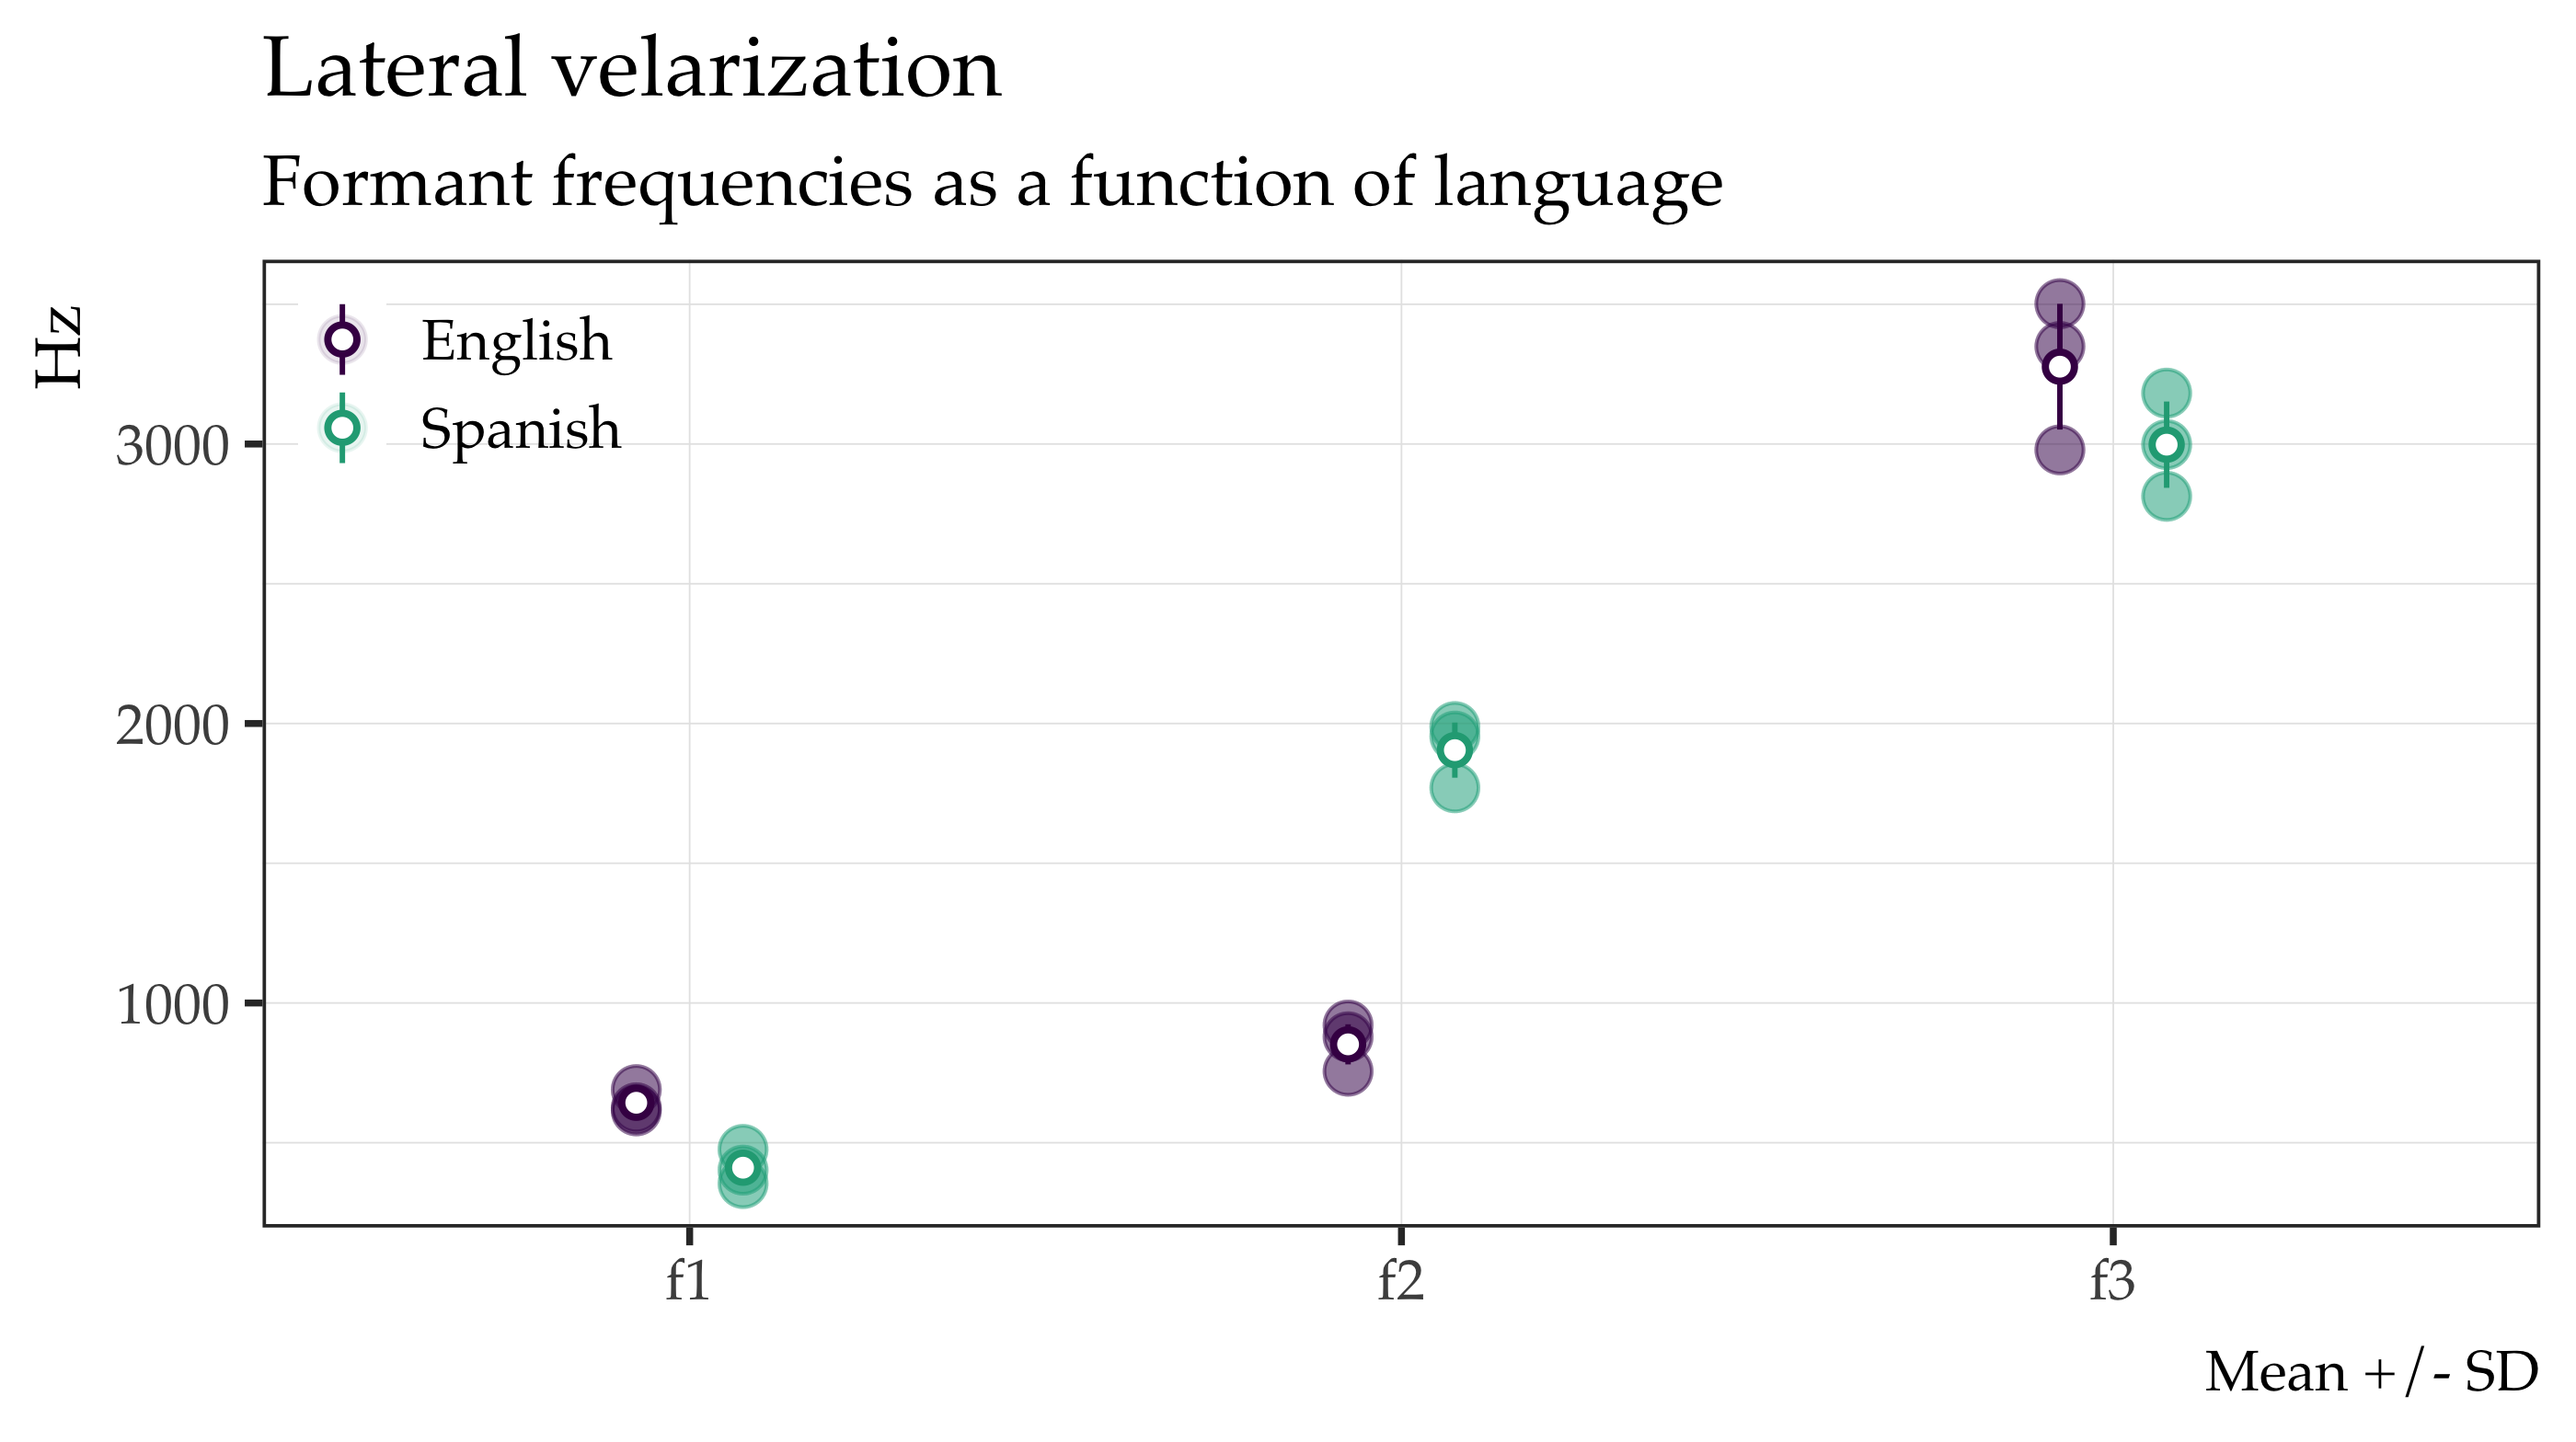
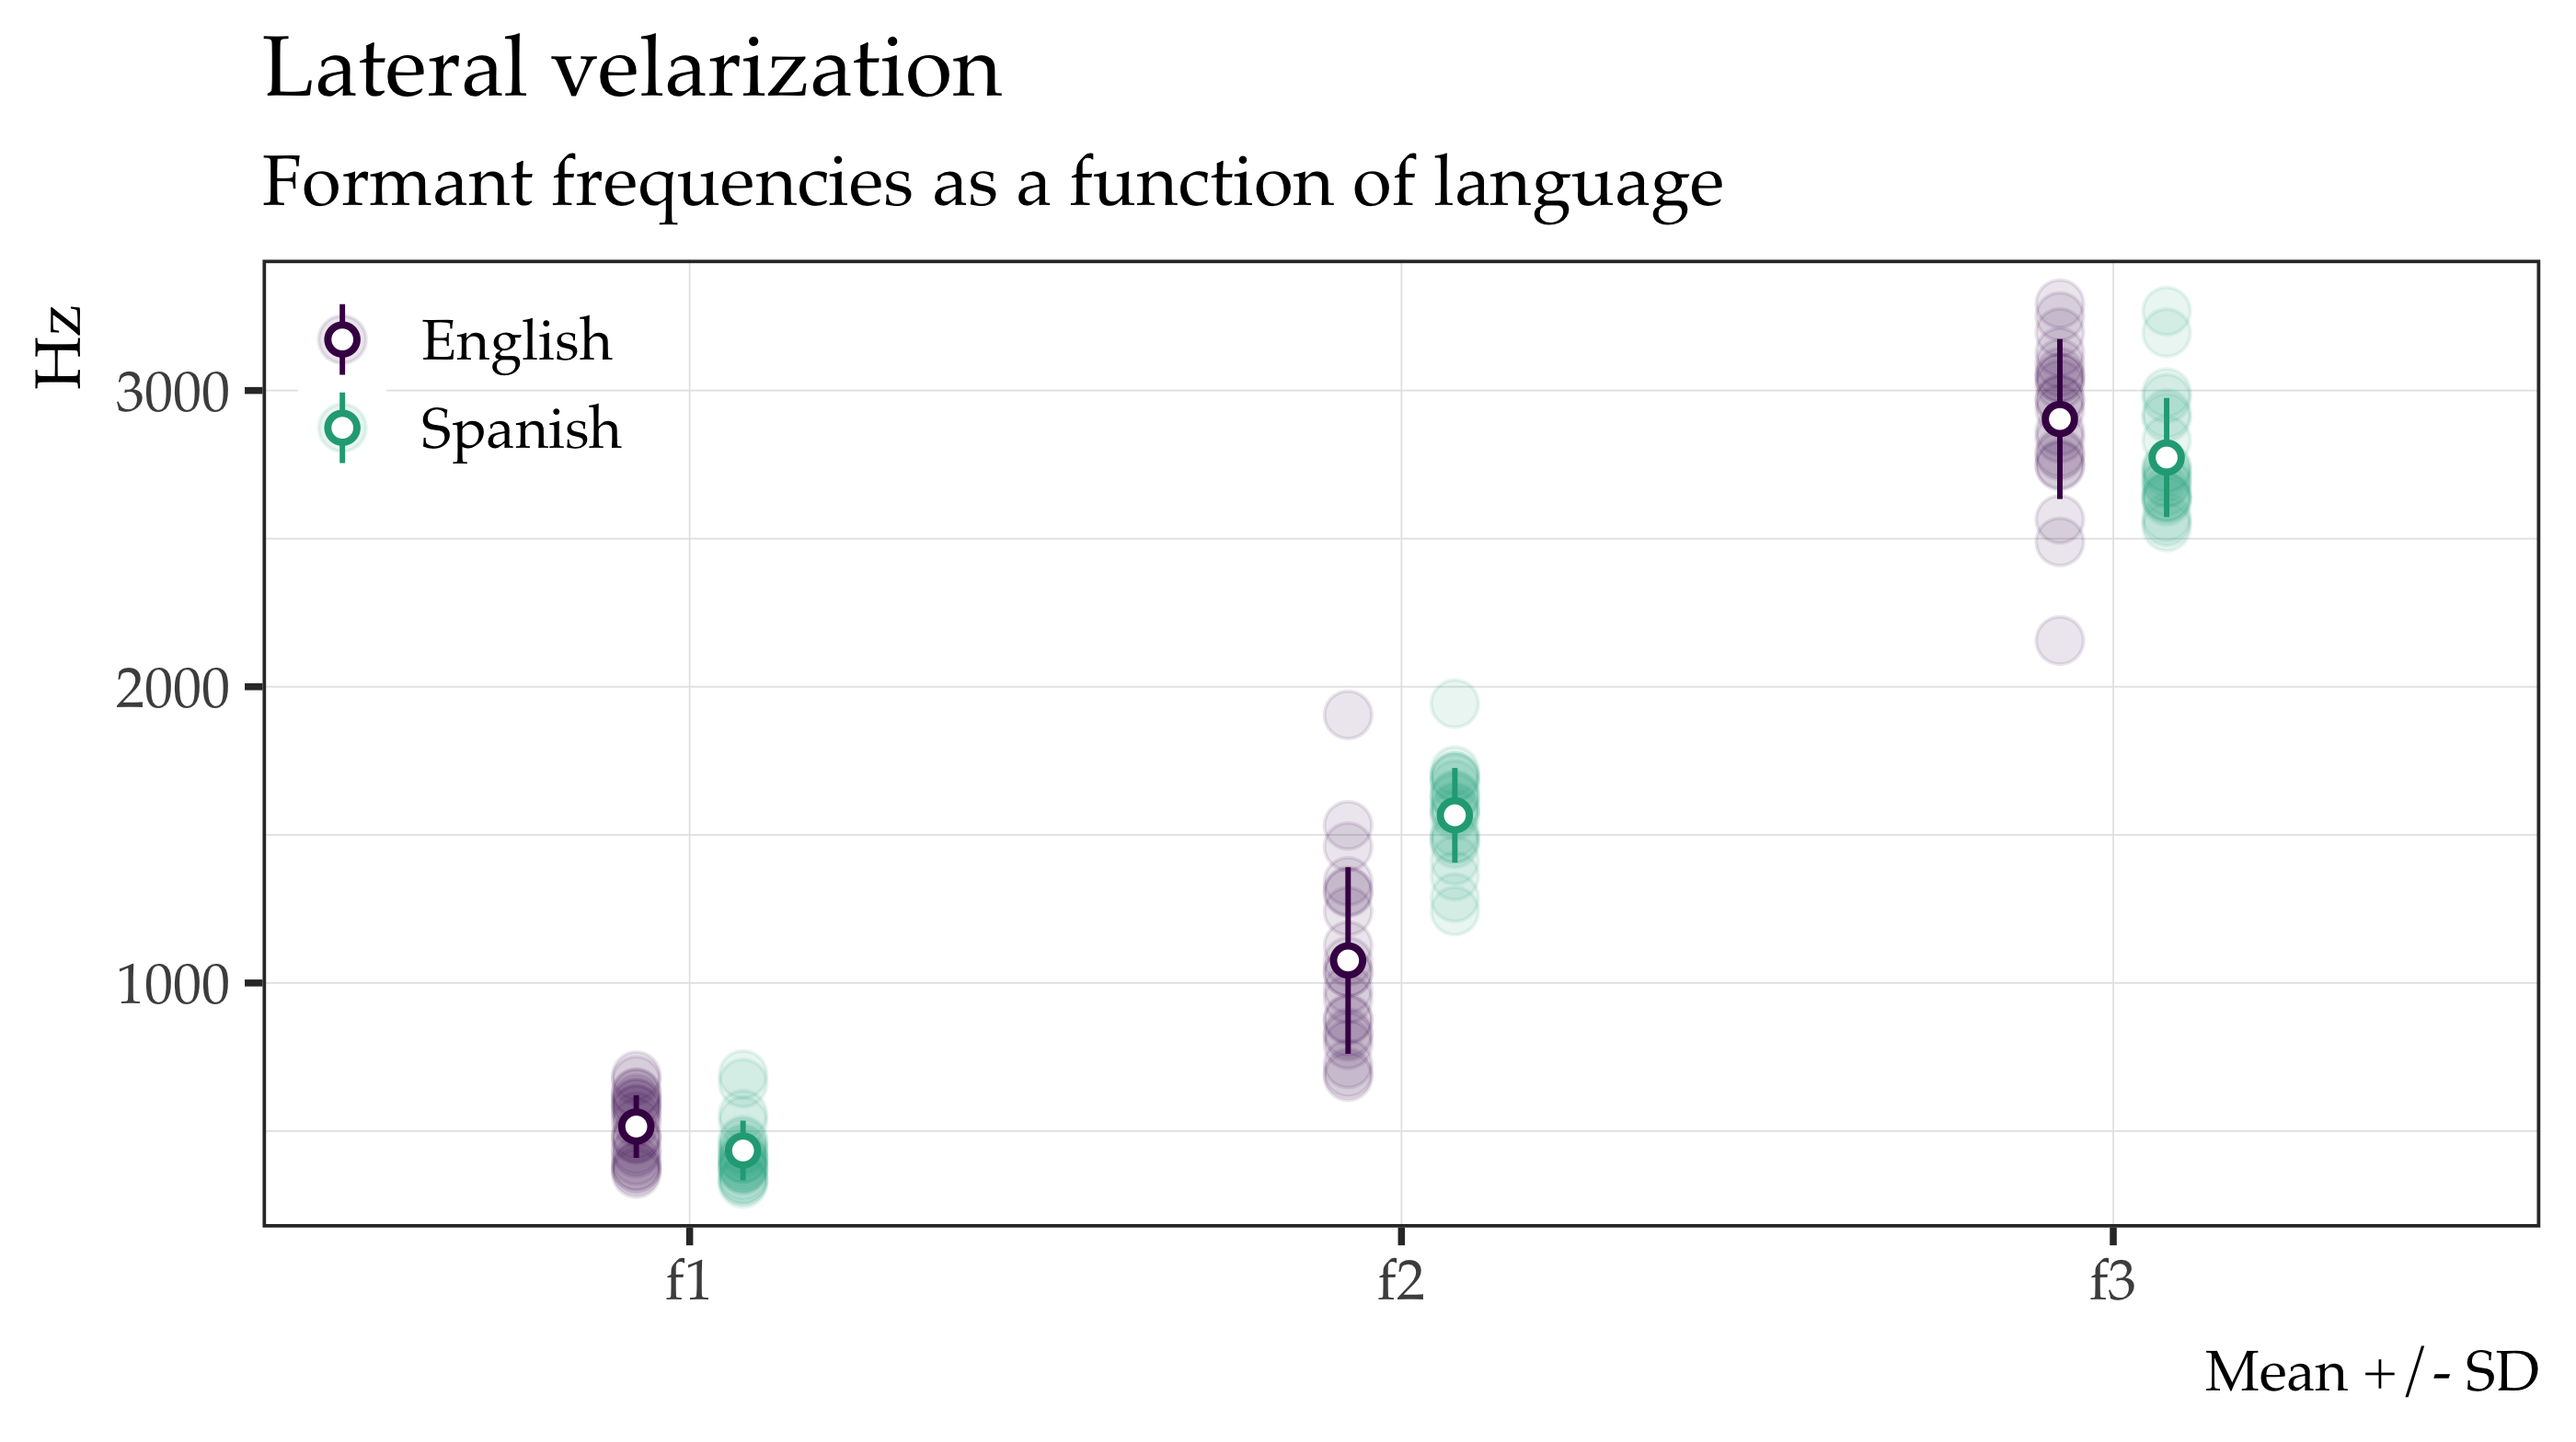
add lateral data

diff --git a/23_sonorantes/index.html b/23_sonorantes/index.html
@@ -14,7 +14,7 @@
     <link href="libs/tachyons/tachyons.min.css" rel="stylesheet" />
     <link href="libs/panelset/panelset.css" rel="stylesheet" />
     <script src="libs/panelset/panelset.js"></script>
-    <script type="application/json" id="xaringanExtra-editable-docid">{"id":"c812c4a289a7491699a000ff92908569","expires":14}</script>
+    <script type="application/json" id="xaringanExtra-editable-docid">{"id":"be477479f9c84c8586321355ee0d82f4","expires":14}</script>
     <script src="libs/himalaya/himalaya.js"></script>
     <script src="libs/js-cookie/js.cookie.js"></script>
     <link href="libs/editable/editable.css" rel="stylesheet" />
@@ -37,7 +37,7 @@ class: center, middle, inverse, title-slide
 ### Joseph V. Casillas, PhD
 ]
 .date[
-### Rutgers University | Spring 2024</br>Last update: 04/18/24
+### Rutgers University | Spring 2024</br>Last update: 04/22/24
 ]
 
 ---
@@ -512,6 +512,12 @@ class: center, middle
 class: center, middle
 
 &lt;img src="index_files/figure-html/lateral-plot2-1.png" width="100%" /&gt;
+
+
+---
+class: center, middle
+
+&lt;img src="index_files/figure-html/lateral-plot3-1.png" width="100%" /&gt;
 
 
 
